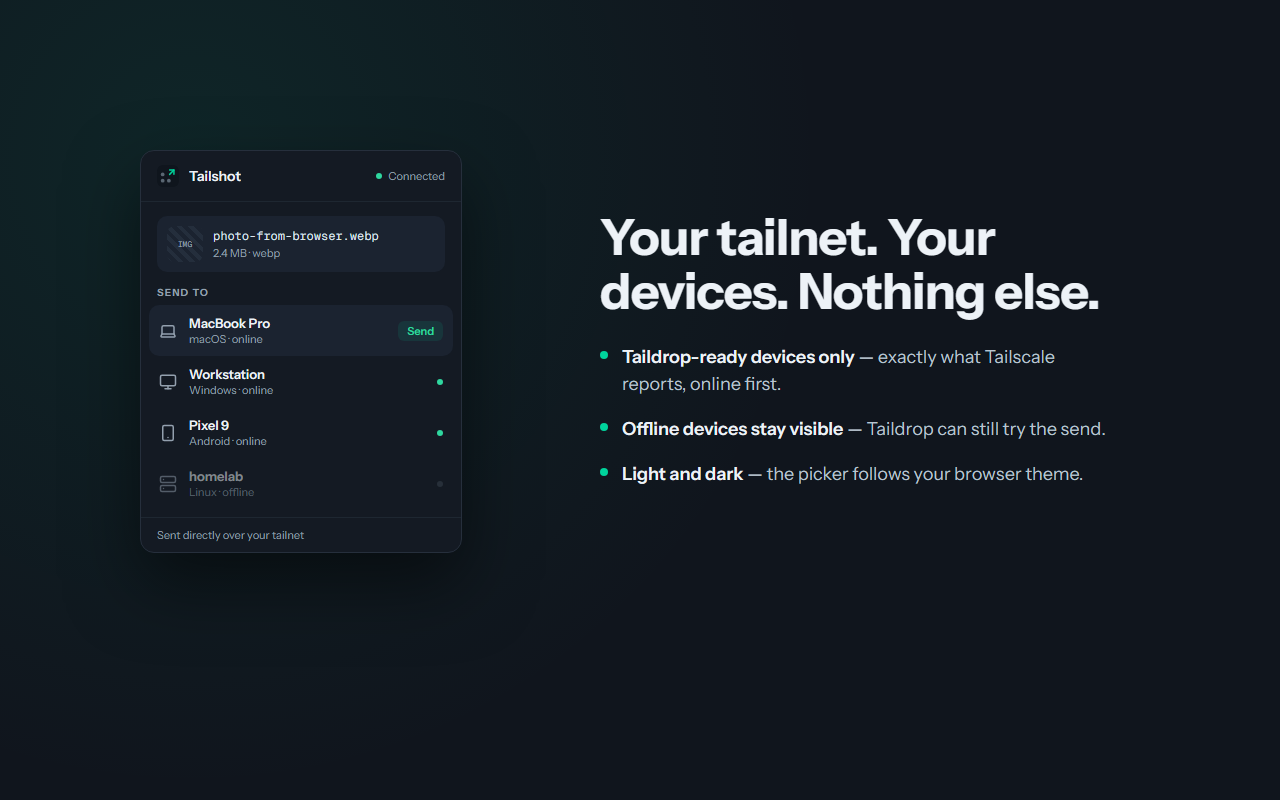
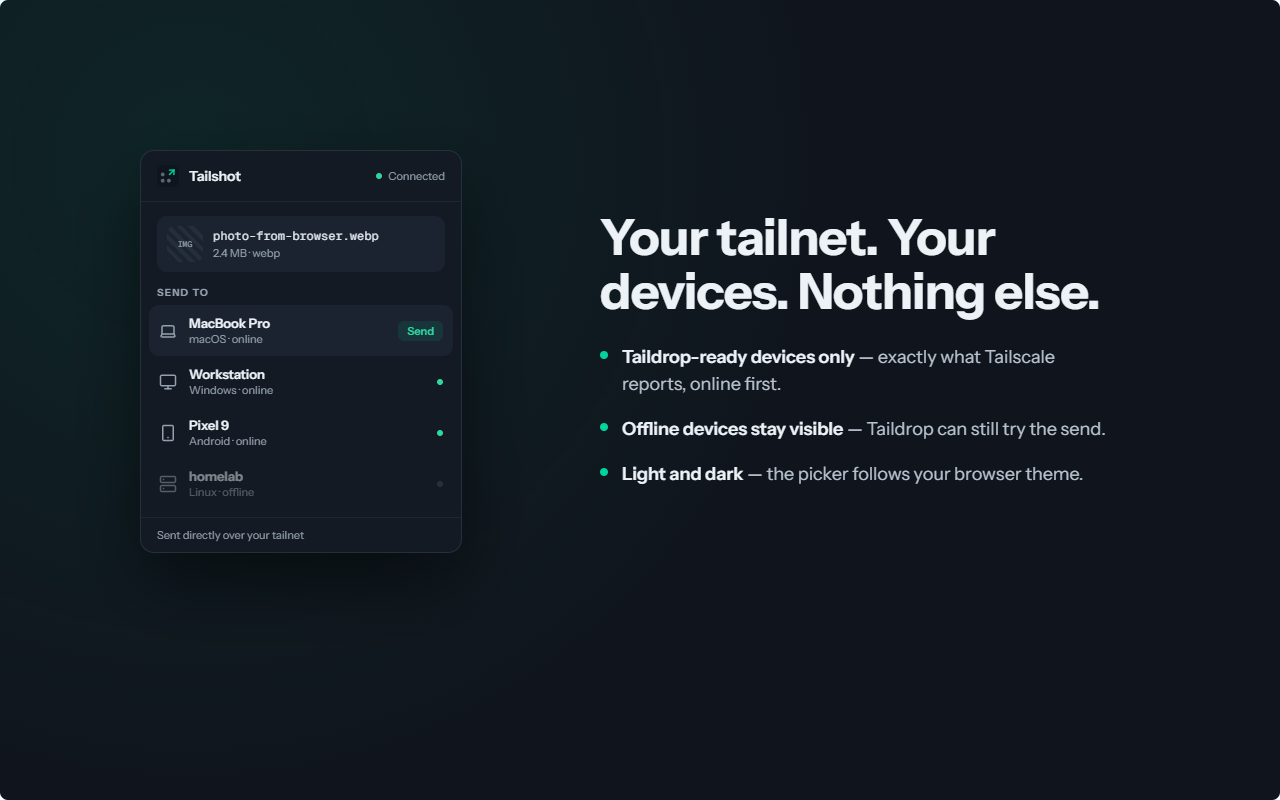
Adopt design-export screenshots and fix review findings
Store assets:
- Use the full-quality design-project exports for the device-picker
  and local-transfer screenshots, and rename the hero screenshot to
  screenshot-flow-1280x800.png to match the design export naming;
  update every reference (validate script, submission docs, handoff
  page).

Review fixes:
- Add an "android" case to the native host normalizeOS - Android
  devices were normalized to "linux", which the redesigned popup now
  surfaces as a visible wrong label ("Linux" + server icon).
- Unstick the popup when window.close() is ignored (page opened as a
  regular tab): after a send succeeds or fails, clear the busy lock
  and reload the device list instead of relying on the window
  closing.
- Reload fresh device state after a failed send instead of
  re-rendering a cached snapshot.
- Log errors to the console per AGENTS.md and surface the underlying
  message when loading devices fails.
- Merge the parallel OS icon/label maps into one OS_META lookup and
  deduplicate the SVG literals.
- Skip empty hostnames in the file meta line (data:/file: URLs).
- Animate the progress sweep with transform instead of left
  (compositor-only), drop dead CSS, and reuse the .mono utility.
- Validate icon dimensions (16/32/48/128) in validate-release.ps1
  and fail the release workflow when manifest.json does not match
  the pushed tag.
- Update docs/install.html to the v1.1 package name.

diff --git a/popup.js b/popup.js
@@ -12,33 +12,32 @@ const headerDotEl = document.getElementById('header-dot');
 const headerTextEl = document.getElementById('header-text');
 const cancelEl = document.getElementById('cancel');
 
-// OS Icons - Lucide SVG icons
-const OS_ICONS = {
-	windows: `<svg xmlns="http://www.w3.org/2000/svg" width="18" height="18" viewBox="0 0 24 24" fill="none" stroke="currentColor" stroke-width="2" stroke-linecap="round" stroke-linejoin="round" class="lucide lucide-monitor-icon lucide-monitor"><rect width="20" height="14" x="2" y="3" rx="2"/><line x1="8" x2="16" y1="21" y2="21"/><line x1="12" x2="12" y1="17" y2="21"/></svg>`,
-	macos: `
-		<svg xmlns="http://www.w3.org/2000/svg" width="18" height="18" viewBox="0 0 24 24" fill="none" stroke="currentColor" stroke-width="2" stroke-linecap="round" stroke-linejoin="round" class="lucide lucide-laptop-icon lucide-laptop"><path d="M18 5a2 2 0 0 1 2 2v8.526a2 2 0 0 0 .212.897l1.068 2.127a1 1 0 0 1-.9 1.45H3.62a1 1 0 0 1-.9-1.45l1.068-2.127A2 2 0 0 0 4 15.526V7a2 2 0 0 1 2-2z"/><path d="M20.054 15.987H3.946"/></svg>
-	`,
-	linux: `
-		<svg xmlns="http://www.w3.org/2000/svg" width="18" height="18" viewBox="0 0 24 24" fill="none" stroke="currentColor" stroke-width="2" stroke-linecap="round" stroke-linejoin="round" class="lucide lucide-server-icon lucide-server"><rect width="20" height="8" x="2" y="2" rx="2" ry="2"/><rect width="20" height="8" x="2" y="14" rx="2" ry="2"/><line x1="6" x2="6.01" y1="6" y2="6"/><line x1="6" x2="6.01" y1="18" y2="18"/></svg>
-	`,
-	android: `
-		<svg xmlns="http://www.w3.org/2000/svg" width="18" height="18" viewBox="0 0 24 24" fill="none" stroke="currentColor" stroke-width="2" stroke-linecap="round" stroke-linejoin="round" class="lucide lucide-smartphone-icon lucide-smartphone"><rect width="14" height="20" x="5" y="2" rx="2" ry="2"/><path d="M12 18h.01"/></svg>
-	`,
-	ios: `
-		<svg xmlns="http://www.w3.org/2000/svg" width="18" height="18" viewBox="0 0 24 24" fill="none" stroke="currentColor" stroke-width="2" stroke-linecap="round" stroke-linejoin="round" class="lucide lucide-smartphone-icon lucide-smartphone"><rect width="14" height="20" x="5" y="2" rx="2" ry="2"/><path d="M12 18h.01"/></svg>
-	`,
-	default: `
-		<svg xmlns="http://www.w3.org/2000/svg" width="18" height="18" viewBox="0 0 24 24" fill="none" stroke="currentColor" stroke-width="2" stroke-linecap="round" stroke-linejoin="round" class="lucide lucide-laptop-icon lucide-laptop"><path d="M18 5a2 2 0 0 1 2 2v8.526a2 2 0 0 0 .212.897l1.068 2.127a1 1 0 0 1-.9 1.45H3.62a1 1 0 0 1-.9-1.45l1.068-2.127A2 2 0 0 0 4 15.526V7a2 2 0 0 1 2-2z"/><path d="M20.054 15.987H3.946"/></svg>
-	`,
+// Lucide SVG icons
+const ICON_LAPTOP = `<svg xmlns="http://www.w3.org/2000/svg" width="18" height="18" viewBox="0 0 24 24" fill="none" stroke="currentColor" stroke-width="2" stroke-linecap="round" stroke-linejoin="round" class="lucide lucide-laptop-icon lucide-laptop"><path d="M18 5a2 2 0 0 1 2 2v8.526a2 2 0 0 0 .212.897l1.068 2.127a1 1 0 0 1-.9 1.45H3.62a1 1 0 0 1-.9-1.45l1.068-2.127A2 2 0 0 0 4 15.526V7a2 2 0 0 1 2-2z"/><path d="M20.054 15.987H3.946"/></svg>`;
+const ICON_MONITOR = `<svg xmlns="http://www.w3.org/2000/svg" width="18" height="18" viewBox="0 0 24 24" fill="none" stroke="currentColor" stroke-width="2" stroke-linecap="round" stroke-linejoin="round" class="lucide lucide-monitor-icon lucide-monitor"><rect width="20" height="14" x="2" y="3" rx="2"/><line x1="8" x2="16" y1="21" y2="21"/><line x1="12" x2="12" y1="17" y2="21"/></svg>`;
+const ICON_SERVER = `<svg xmlns="http://www.w3.org/2000/svg" width="18" height="18" viewBox="0 0 24 24" fill="none" stroke="currentColor" stroke-width="2" stroke-linecap="round" stroke-linejoin="round" class="lucide lucide-server-icon lucide-server"><rect width="20" height="8" x="2" y="2" rx="2" ry="2"/><rect width="20" height="8" x="2" y="14" rx="2" ry="2"/><line x1="6" x2="6.01" y1="6" y2="6"/><line x1="6" x2="6.01" y1="18" y2="18"/></svg>`;
+const ICON_SMARTPHONE = `<svg xmlns="http://www.w3.org/2000/svg" width="18" height="18" viewBox="0 0 24 24" fill="none" stroke="currentColor" stroke-width="2" stroke-linecap="round" stroke-linejoin="round" class="lucide lucide-smartphone-icon lucide-smartphone"><rect width="14" height="20" x="5" y="2" rx="2" ry="2"/><path d="M12 18h.01"/></svg>`;
+
+// One matcher drives both the icon and the visible label for a device OS
+const OS_META = {
+	windows: { icon: ICON_MONITOR, label: 'Windows' },
+	macos: { icon: ICON_LAPTOP, label: 'macOS' },
+	linux: { icon: ICON_SERVER, label: 'Linux' },
+	android: { icon: ICON_SMARTPHONE, label: 'Android' },
+	ios: { icon: ICON_SMARTPHONE, label: 'iOS' },
 };
 
-const OS_LABELS = {
-	windows: 'Windows',
-	macos: 'macOS',
-	linux: 'Linux',
-	android: 'Android',
-	ios: 'iOS',
-};
+function getOSMeta(os) {
+	if (os) {
+		for (const [key, meta] of Object.entries(OS_META)) {
+			if (os.includes(key)) return meta;
+		}
+	}
+	return {
+		icon: ICON_LAPTOP,
+		label: os ? os.charAt(0).toUpperCase() + os.slice(1) : 'Device',
+	};
+}
 
 // Initialize
 document.addEventListener('DOMContentLoaded', () => {
@@ -76,26 +75,24 @@ async function loadDevices() {
 
 		const devices = response.data || [];
 
+		setHeaderStatus('Connected', true);
+
 		if (devices.length === 0) {
-			setHeaderStatus('Connected', true);
 			showStatus('No Taildrop devices found', 'error');
 			return;
 		}
 
-		setHeaderStatus('Connected', true);
 		displayDevices(devices);
 		statusEl.style.display = 'none';
 	} catch (error) {
+		console.error('Failed to load devices', error);
 		setHeaderStatus('Offline', false);
-		showStatus('Failed to load devices', 'error');
+		showStatus(`Failed to load devices: ${error.message || error}`, 'error');
 	}
 }
 
 // Display device list
-let lastDevices = [];
-
 function displayDevices(devices) {
-	lastDevices = devices;
 	deviceListEl.innerHTML = '';
 
 	const sorted = [...devices].sort(
@@ -110,9 +107,11 @@ function displayDevices(devices) {
 			deviceEl.title = 'Tailscale reports this device as offline; Taildrop will still try to send.';
 		}
 
+		const osMeta = getOSMeta(device.os);
+
 		const osIconEl = document.createElement('div');
 		osIconEl.className = 'device-os-icon';
-		osIconEl.innerHTML = getOSIcon(device.os);
+		osIconEl.innerHTML = osMeta.icon;
 
 		const bodyEl = document.createElement('div');
 		bodyEl.className = 'device-body';
@@ -127,7 +126,7 @@ function displayDevices(devices) {
 
 		const subEl = document.createElement('div');
 		subEl.className = 'device-sub';
-		subEl.textContent = `${getOSLabel(device.os)} · ${device.online ? 'online' : 'offline'}`;
+		subEl.textContent = `${osMeta.label} · ${device.online ? 'online' : 'offline'}`;
 
 		bodyEl.append(titleRowEl, subEl);
 
@@ -144,29 +143,6 @@ function displayDevices(devices) {
 	});
 
 	deviceListEl.style.display = 'flex';
-}
-
-// Get OS icon based on device OS
-function getOSIcon(os) {
-	if (!os) return OS_ICONS.default;
-
-	if (os.includes('windows')) return OS_ICONS.windows;
-	if (os.includes('macos')) return OS_ICONS.macos;
-	if (os.includes('linux')) return OS_ICONS.linux;
-	if (os.includes('android')) return OS_ICONS.android;
-	if (os.includes('ios')) return OS_ICONS.ios;
-
-	return OS_ICONS.default;
-}
-
-function getOSLabel(os) {
-	if (!os) return 'Device';
-
-	for (const [key, label] of Object.entries(OS_LABELS)) {
-		if (os.includes(key)) return label;
-	}
-
-	return os.charAt(0).toUpperCase() + os.slice(1);
 }
 
 // Swap a device row between its idle layout and the sending/sent layout
@@ -213,23 +189,31 @@ async function sendToDevice(device, deviceEl) {
 			deviceEl.classList.remove('sending');
 			deviceEl.classList.add('sent');
 			deviceEl.querySelector('.device-send-state').textContent = 'Sent';
-			setTimeout(() => window.close(), 1500);
+			setTimeout(() => {
+				window.close();
+				// window.close() is ignored when the page wasn't script-opened
+				// (e.g. loaded as a regular tab) — unlock instead of staying stuck
+				setTimeout(() => {
+					document.body.classList.remove('busy');
+					loadDevices();
+				}, 400);
+			}, 1500);
 		} else {
 			showSendError(`Error: ${response?.error || 'No response from extension'}`);
 		}
 	} catch (error) {
+		console.error('Failed to send image', error);
 		showSendError(error.message || 'Failed to send image');
 	}
 }
 
-// Show a send failure, then restore the device list
+// Show a send failure, then reload the device list with fresh state
 function showSendError(message) {
 	deviceListEl.style.display = 'none';
 	showStatus(message, 'error');
 	setTimeout(() => {
-		statusEl.style.display = 'none';
 		document.body.classList.remove('busy');
-		displayDevices(lastDevices);
+		loadDevices();
 	}, 2000);
 }
 
@@ -319,9 +303,12 @@ function getFileMeta(url, filename) {
 	}
 
 	try {
-		parts.push(new URL(url).hostname);
+		const hostname = new URL(url).hostname;
+		if (hostname) {
+			parts.push(hostname);
+		}
 	} catch (e) {
-		// ignore unparseable URLs
+		console.warn('Could not parse image URL for meta line', e);
 	}
 
 	return parts.join(' · ') || 'image';

diff --git a/popup.html b/popup.html
@@ -144,7 +144,6 @@
     }
 
     .file-thumb span {
-      font-family: 'Geist Mono', ui-monospace, 'Cascadia Code', Consolas, monospace;
       font-size: 8px;
       color: var(--text-secondary);
     }
@@ -157,7 +156,6 @@
     }
 
     .file-name {
-      font-family: 'Geist Mono', ui-monospace, 'Cascadia Code', Consolas, monospace;
       font-size: 12px;
       color: var(--text-mono);
       white-space: nowrap;
@@ -224,11 +222,6 @@
       background: var(--row-active-bg);
       border-color: var(--row-active-border);
       cursor: default;
-    }
-
-    .device-item.sending:hover,
-    .device-item.sent:hover {
-      background: var(--row-active-bg);
     }
 
     body.busy .device-item:not(.sending):not(.sent) {
@@ -316,11 +309,12 @@
 
     .progress-fill {
       position: absolute;
-      left: -36%;
+      left: 0;
       width: 36%;
       height: 100%;
       border-radius: 2px;
       background: linear-gradient(90deg, transparent, var(--progress-fill), transparent);
+      transform: translateX(-100%);
       animation: indeterminate 1.2s ease-in-out infinite;
     }
 
@@ -328,23 +322,26 @@
       position: static;
       width: 100%;
       background: var(--progress-fill);
+      transform: none;
       animation: none;
     }
 
+    /* translateX percentages are relative to the fill (36% of the track),
+       so -100%..278% sweeps the fill from fully off-left to fully off-right */
     @keyframes indeterminate {
       from {
-        left: -36%;
+        transform: translateX(-100%);
       }
 
       to {
-        left: 100%;
+        transform: translateX(278%);
       }
     }
 
     @media (prefers-reduced-motion: reduce) {
       .progress-fill {
         animation: none;
-        left: 0;
+        transform: none;
         width: 100%;
         opacity: 0.6;
       }
@@ -407,9 +404,9 @@
 
   <div class="file-card-wrap">
     <div class="file-card">
-      <div id="file-thumb" class="file-thumb"><span>IMG</span></div>
+      <div id="file-thumb" class="file-thumb"><span class="mono">IMG</span></div>
       <div class="file-meta">
-        <div id="filename" class="file-name"></div>
+        <div id="filename" class="file-name mono"></div>
         <div id="filemeta" class="file-sub"></div>
       </div>
     </div>

diff --git a/installer/chrome-webstore/dashboard-handoff.html b/installer/chrome-webstore/dashboard-handoff.html
@@ -173,8 +173,8 @@
 				<div class="field">
 					<h3>Workflow screenshot</h3>
 					<div class="copy-row">
-						<div class="copy-value">store-assets\chrome-webstore\screenshot-1280x800.png</div>
-						<button data-copy="store-assets\chrome-webstore\screenshot-1280x800.png">Copy</button>
+						<div class="copy-value">store-assets\chrome-webstore\screenshot-flow-1280x800.png</div>
+						<button data-copy="store-assets\chrome-webstore\screenshot-flow-1280x800.png">Copy</button>
 					</div>
 				</div>
 				<div class="field">

diff --git a/docs/install.html b/docs/install.html
@@ -99,7 +99,7 @@
 
       <h2>Windows</h2>
       <ol>
-        <li>Download the latest <code>tailshot-windows-1.0.zip</code> package from the project's GitHub release.</li>
+        <li>Download the latest <code>tailshot-windows-1.1.zip</code> package from the project's GitHub release.</li>
         <li>Extract the zip.</li>
         <li>Install the Chrome extension and copy its extension ID.</li>
         <li>Run the installer from PowerShell:</li>

diff --git a/native-host/main.go b/native-host/main.go
@@ -246,6 +246,8 @@ func (nh *NativeHost) normalizeOS(os string) string {
 	switch strings.ToLower(os) {
 	case "ios":
 		return "ios"
+	case "android":
+		return "android"
 	case "macos", "darwin":
 		return "macos"
 	case "windows":

diff --git a/installer/chrome-webstore/SUBMISSION.md b/installer/chrome-webstore/SUBMISSION.md
@@ -27,7 +27,7 @@ Validate the release artifacts before uploading:
 Upload these listing assets:
 
 ```text
-store-assets\chrome-webstore\screenshot-1280x800.png
+store-assets\chrome-webstore\screenshot-flow-1280x800.png
 store-assets\chrome-webstore\screenshot-device-picker-1280x800.png
 store-assets\chrome-webstore\screenshot-local-transfer-1280x800.png
 store-assets\chrome-webstore\small-promo-440x280.png

diff --git a/installer/chrome-webstore/README.md b/installer/chrome-webstore/README.md
@@ -44,7 +44,7 @@ Suggested category: `Productivity`
 
 Store listing images:
 
-- `store-assets\chrome-webstore\screenshot-1280x800.png`
+- `store-assets\chrome-webstore\screenshot-flow-1280x800.png`
 - `store-assets\chrome-webstore\screenshot-device-picker-1280x800.png`
 - `store-assets\chrome-webstore\screenshot-local-transfer-1280x800.png`
 - `store-assets\chrome-webstore\small-promo-440x280.png`

diff --git a/installer/chrome-webstore/DASHBOARD_STEPS.md b/installer/chrome-webstore/DASHBOARD_STEPS.md
@@ -27,7 +27,7 @@ installer\chrome-webstore\SUBMISSION.md
 Upload:
 
 ```text
-store-assets\chrome-webstore\screenshot-1280x800.png
+store-assets\chrome-webstore\screenshot-flow-1280x800.png
 store-assets\chrome-webstore\screenshot-device-picker-1280x800.png
 store-assets\chrome-webstore\screenshot-local-transfer-1280x800.png
 store-assets\chrome-webstore\small-promo-440x280.png
